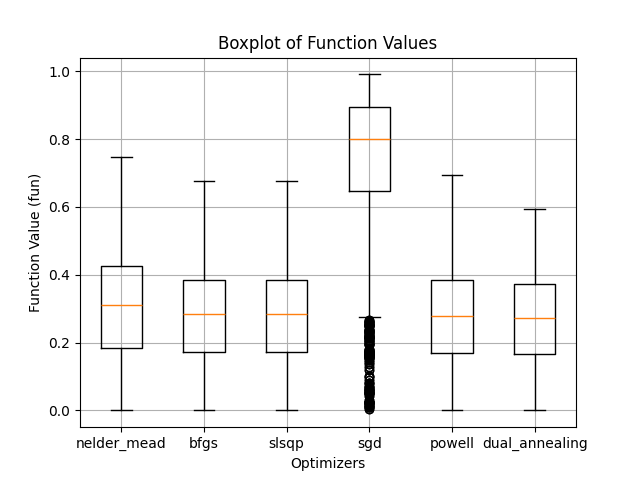
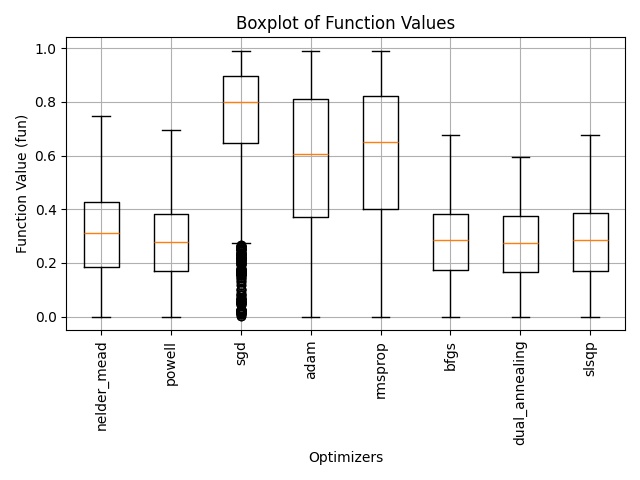
corrected gradient-based and gradient-free optimizer lists, added new optimizers

diff --git a/Code/entangled_qnn_training-main/convergence_plots.py b/Code/entangled_qnn_training-main/convergence_plots.py
@@ -20,8 +20,8 @@ def load_json_files(directory):
     return data
 
 def extract_optimizer_data(json_data):
-    gradient_based = ["nelder_mead", "bfgs", "slsqp"]
-    gradient_free = ["sgd", "powell", "dual_annealing"]
+    gradient_based = ["nelder_mead", "powell", "cobyla"]
+    gradient_free = ["sgd", "adam", "rmsprop", "bfgs", "dual_annealing", "slsqp"]
     optimizers = gradient_based + gradient_free
 
     optimizer_data = {}
@@ -144,7 +144,9 @@ def plot_boxplots(optimizer_data, boxplot_save_path): # sgd scheint viele ausrei
     plt.xlabel('Optimizers')
     plt.ylabel('Function Value (fun)')
     plt.title('Boxplot of Function Values')
+    plt.xticks(rotation=90)
     plt.grid(True)
+    plt.tight_layout()
     file_path = os.path.join(boxplot_save_path, 'optimizer_boxplots.png')
     plt.savefig(file_path)
     plt.close()
